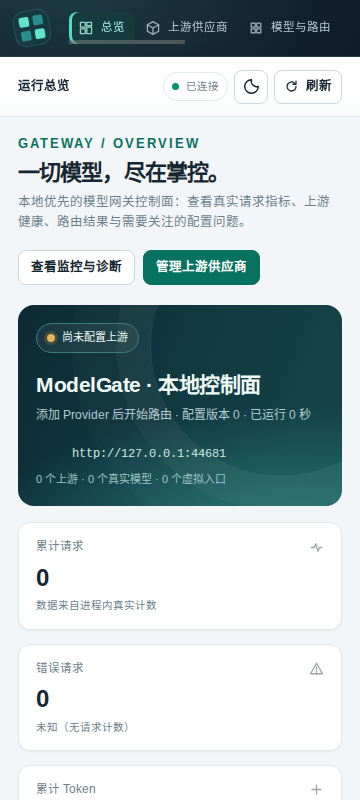
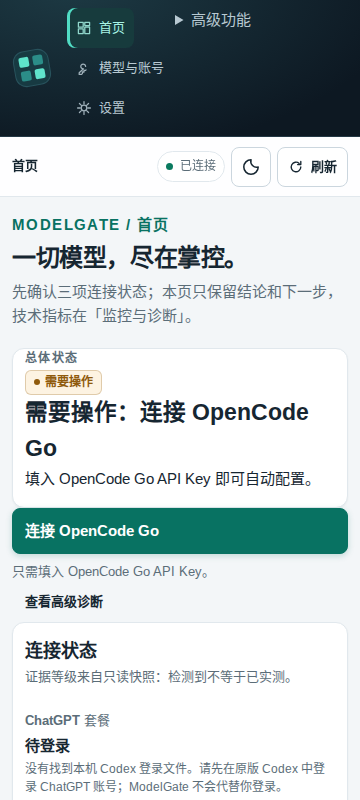
fix(ux-v3-a1): 修复证据徽章歧义、窄屏标签截断与首屏 CTA
- 证据徽章只保留 configured/runtime-verified/unknown；detected 不再与待连接/待登录并列，避免被读成可用。- 状态行改为名称/状态/模型名/说明分行，模型名不再套用 nowrap+ellipsis。- 主 CTA 移到总体状态之后、连接状态之前，360x800 与 768x900 首屏可见。- 首页导航默认项静态带 aria-current=page（A5 UI-01 静态验收）。

diff --git a/src/ui-next/js/views/dashboard.js b/src/ui-next/js/views/dashboard.js
@@ -40,16 +40,19 @@ const OVERALL_TAGS = Object.freeze({
   loading: ['读取中', 'muted'],
 })
 
-function evidenceTag (level) {
-  const text = EVIDENCE_TAG_LABELS[String(level || '')] || EVIDENCE_TAG_LABELS.unknown
-  const kind = level === 'runtime-verified'
-    ? 'good'
-    : level === 'configured'
-      ? 'accent'
-      : level === 'detected'
-        ? 'info'
-        : 'muted'
-  return tag(text, kind)
+// 证据徽章只显示"比状态本身多出来的信息"：
+//   detected 只说明"探测到了存在性"，不是可用结论，因此不再单独出徽章；
+//   任何"待…/需要…/未知"状态都不并排 已检测/已配置/已实测，避免被读成"可以用了"。
+const PENDING_LABEL = /^(待|需要|未检测到|未找到|无法|状态未知)/
+export function evidenceBadge (level, item) {
+  const label = String((item && item.label) || '')
+  if (level === 'detected') return null
+  if (level === 'unknown') return tag(EVIDENCE_TAG_LABELS.unknown, 'muted')
+  if (PENDING_LABEL.test(label)) return null
+  if (level === 'configured') return tag(EVIDENCE_TAG_LABELS.configured, 'accent')
+  if (level === 'runtime-verified') return tag(EVIDENCE_TAG_LABELS['runtime-verified'], 'good')
+  if (level === 'not-tested') return tag(EVIDENCE_TAG_LABELS['not-tested'], 'muted')
+  return null
 }
 
 function stateKind (key, item) {
@@ -168,14 +171,16 @@ export function buildOverall (product) {
     h('p', { class: 'home-overall-detail', text: overall.detail || '没有取得总体结论。' })))]
 }
 
-function statusRow ({ key, title, item, detail, level }) {
-  return h('div', { class: 'list-row home-status-row', 'data-status': key },
-    h('div', { class: 'grow' },
-      h('div', { class: 'primary' }, title),
-      h('div', { class: 'secondary', text: detail })),
-    h('div', { class: 'flex home-status-tags' },
-      tag((item && item.label) || '状态未知', stateKind(key, item)),
-      evidenceTag(level || (item && item.level))))
+// 行结构：名称独立一行；状态值、模型名、说明各自成行并允许换行（360px 不出现半截模型名）。
+function statusRow ({ key, title, item, detail, level, model }) {
+  const badge = evidenceBadge(level || (item && item.level), item)
+  return h('div', { class: 'status-row is-' + stateKind(key, item), 'data-status': key, role: 'group' },
+    h('div', { class: 'status-row-main' },
+      h('span', { class: 'status-row-label', text: title }),
+      h('span', { class: 'status-row-value', text: (item && item.label) || '状态未知' }),
+      model ? h('span', { class: 'status-row-detail home-status-model', text: model }) : null,
+      h('p', { class: 'status-row-detail', text: detail })),
+    badge ? h('div', { class: 'home-status-tags' }, badge) : null)
 }
 
 // ② 三条连接状态行：ChatGPT 套餐 / OpenCode Go / Codex Desktop，每行都带证据等级。
@@ -194,10 +199,11 @@ export function buildStatusRows (product) {
     }),
     statusRow({
       key: 'go',
-      title: [h('span', { text: 'OpenCode Go' }), h('span', { class: 'home-model-chip', text: GO_MODEL_DISPLAY })],
+      title: 'OpenCode Go',
       item: go,
       detail: goDetail(go),
       level: go.level,
+      model: GO_MODEL_DISPLAY,
     }),
     statusRow({
       key: 'codex',
@@ -257,7 +263,7 @@ export function buildPrimaryAction (product, ctx = {}) {
   const p = product || {}
   const primary = p.primary || { id: 'wait', label: '正在读取状态…', kind: 'wait', detail: '' }
   const button = h('button', {
-    class: 'btn btn-primary',
+    class: 'btn btn-primary btn-lg primary-action-button',
     type: 'button',
     'data-primary-cta': primary.id || 'primary',
     text: primary.label,
@@ -276,9 +282,9 @@ export function buildPrimaryAction (product, ctx = {}) {
     return b
   })
   return [h('section', { class: 'home-cta', 'aria-label': '下一步操作' },
-    h('div', { class: 'home-cta-main' },
+    h('div', { class: 'primary-action' },
       button,
-      primary.detail ? h('p', { class: 'home-cta-detail', text: primary.detail }) : null),
+      primary.detail ? h('p', { class: 'primary-action-detail', text: primary.detail }) : null),
     secondaryButtons.length ? h('div', { class: 'home-cta-secondary' }, secondaryButtons) : null)]
 }
 
@@ -311,9 +317,10 @@ export function render (root, ctx = {}) {
   root.append(...buildOverall(product))
 
   if (product && !loading && !locked) {
-    root.append(card('连接状态', '证据等级来自只读快照：检测到不等于已实测。', h('div', { class: 'list' }, buildStatusRows(product))))
-    root.append(buildAggregationCard(product))
+    // 主操作紧跟总体结论：360×800 / 768×900 首屏可见，不靠缩小字号或隐藏状态行。
     root.append(...buildPrimaryAction(product, ctx))
+    root.append(card('连接状态', '证据等级来自只读快照：检测到不等于已实测。', h('div', { class: 'home-status-list' }, buildStatusRows(product))))
+    root.append(buildAggregationCard(product))
   } else if (product) {
     root.append(...buildPrimaryAction(product, ctx))
   }

diff --git a/src/ui-next/index.html b/src/ui-next/index.html
@@ -21,7 +21,7 @@
       <nav class="nav" aria-label="功能分区">
         <p class="nav-label">工作区</p>
         <div class="nav-group nav-primary" role="group" aria-label="常用功能">
-          <button class="nav-link" type="button" data-route="overview">
+          <button class="nav-link" type="button" data-route="overview" aria-current="page">
             <svg viewBox="0 0 20 20" aria-hidden="true"><path d="M3 3h6v6H3zM11 3h6v4h-6zM11 9h6v8h-6zM3 11h6v6H3z"/></svg><span>首页</span>
           </button>
           <button class="nav-link" type="button" data-route="connections">
